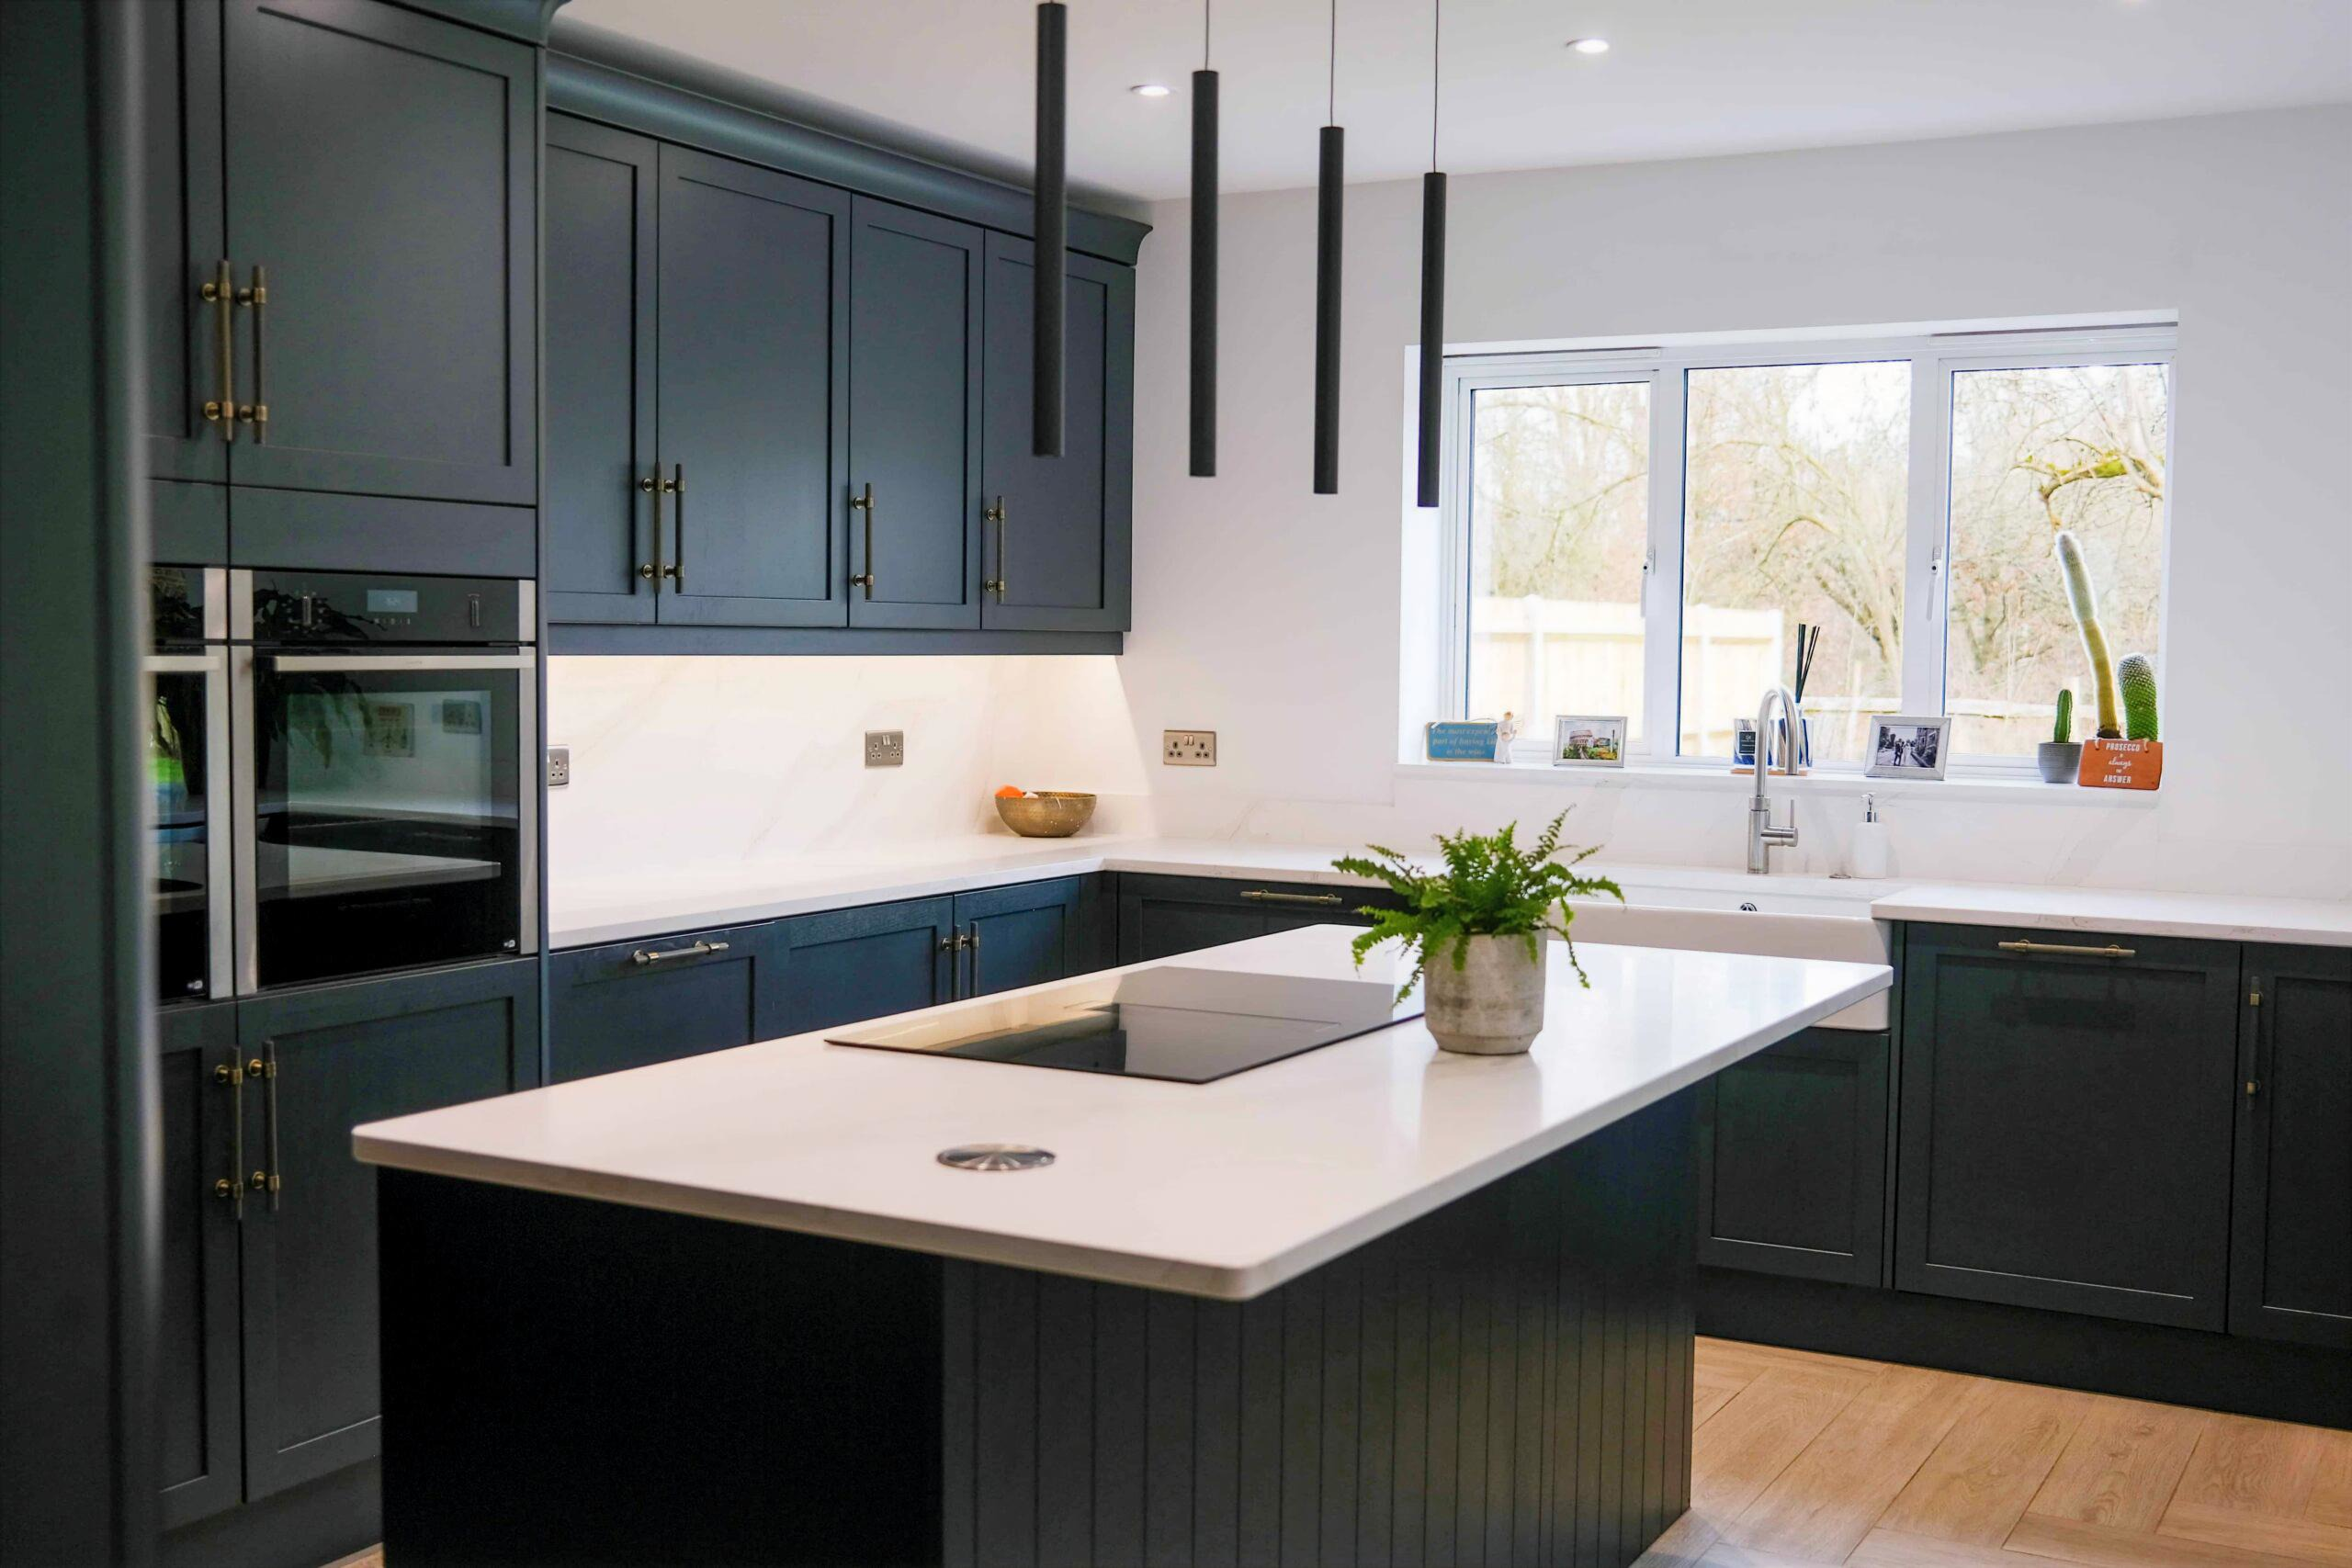
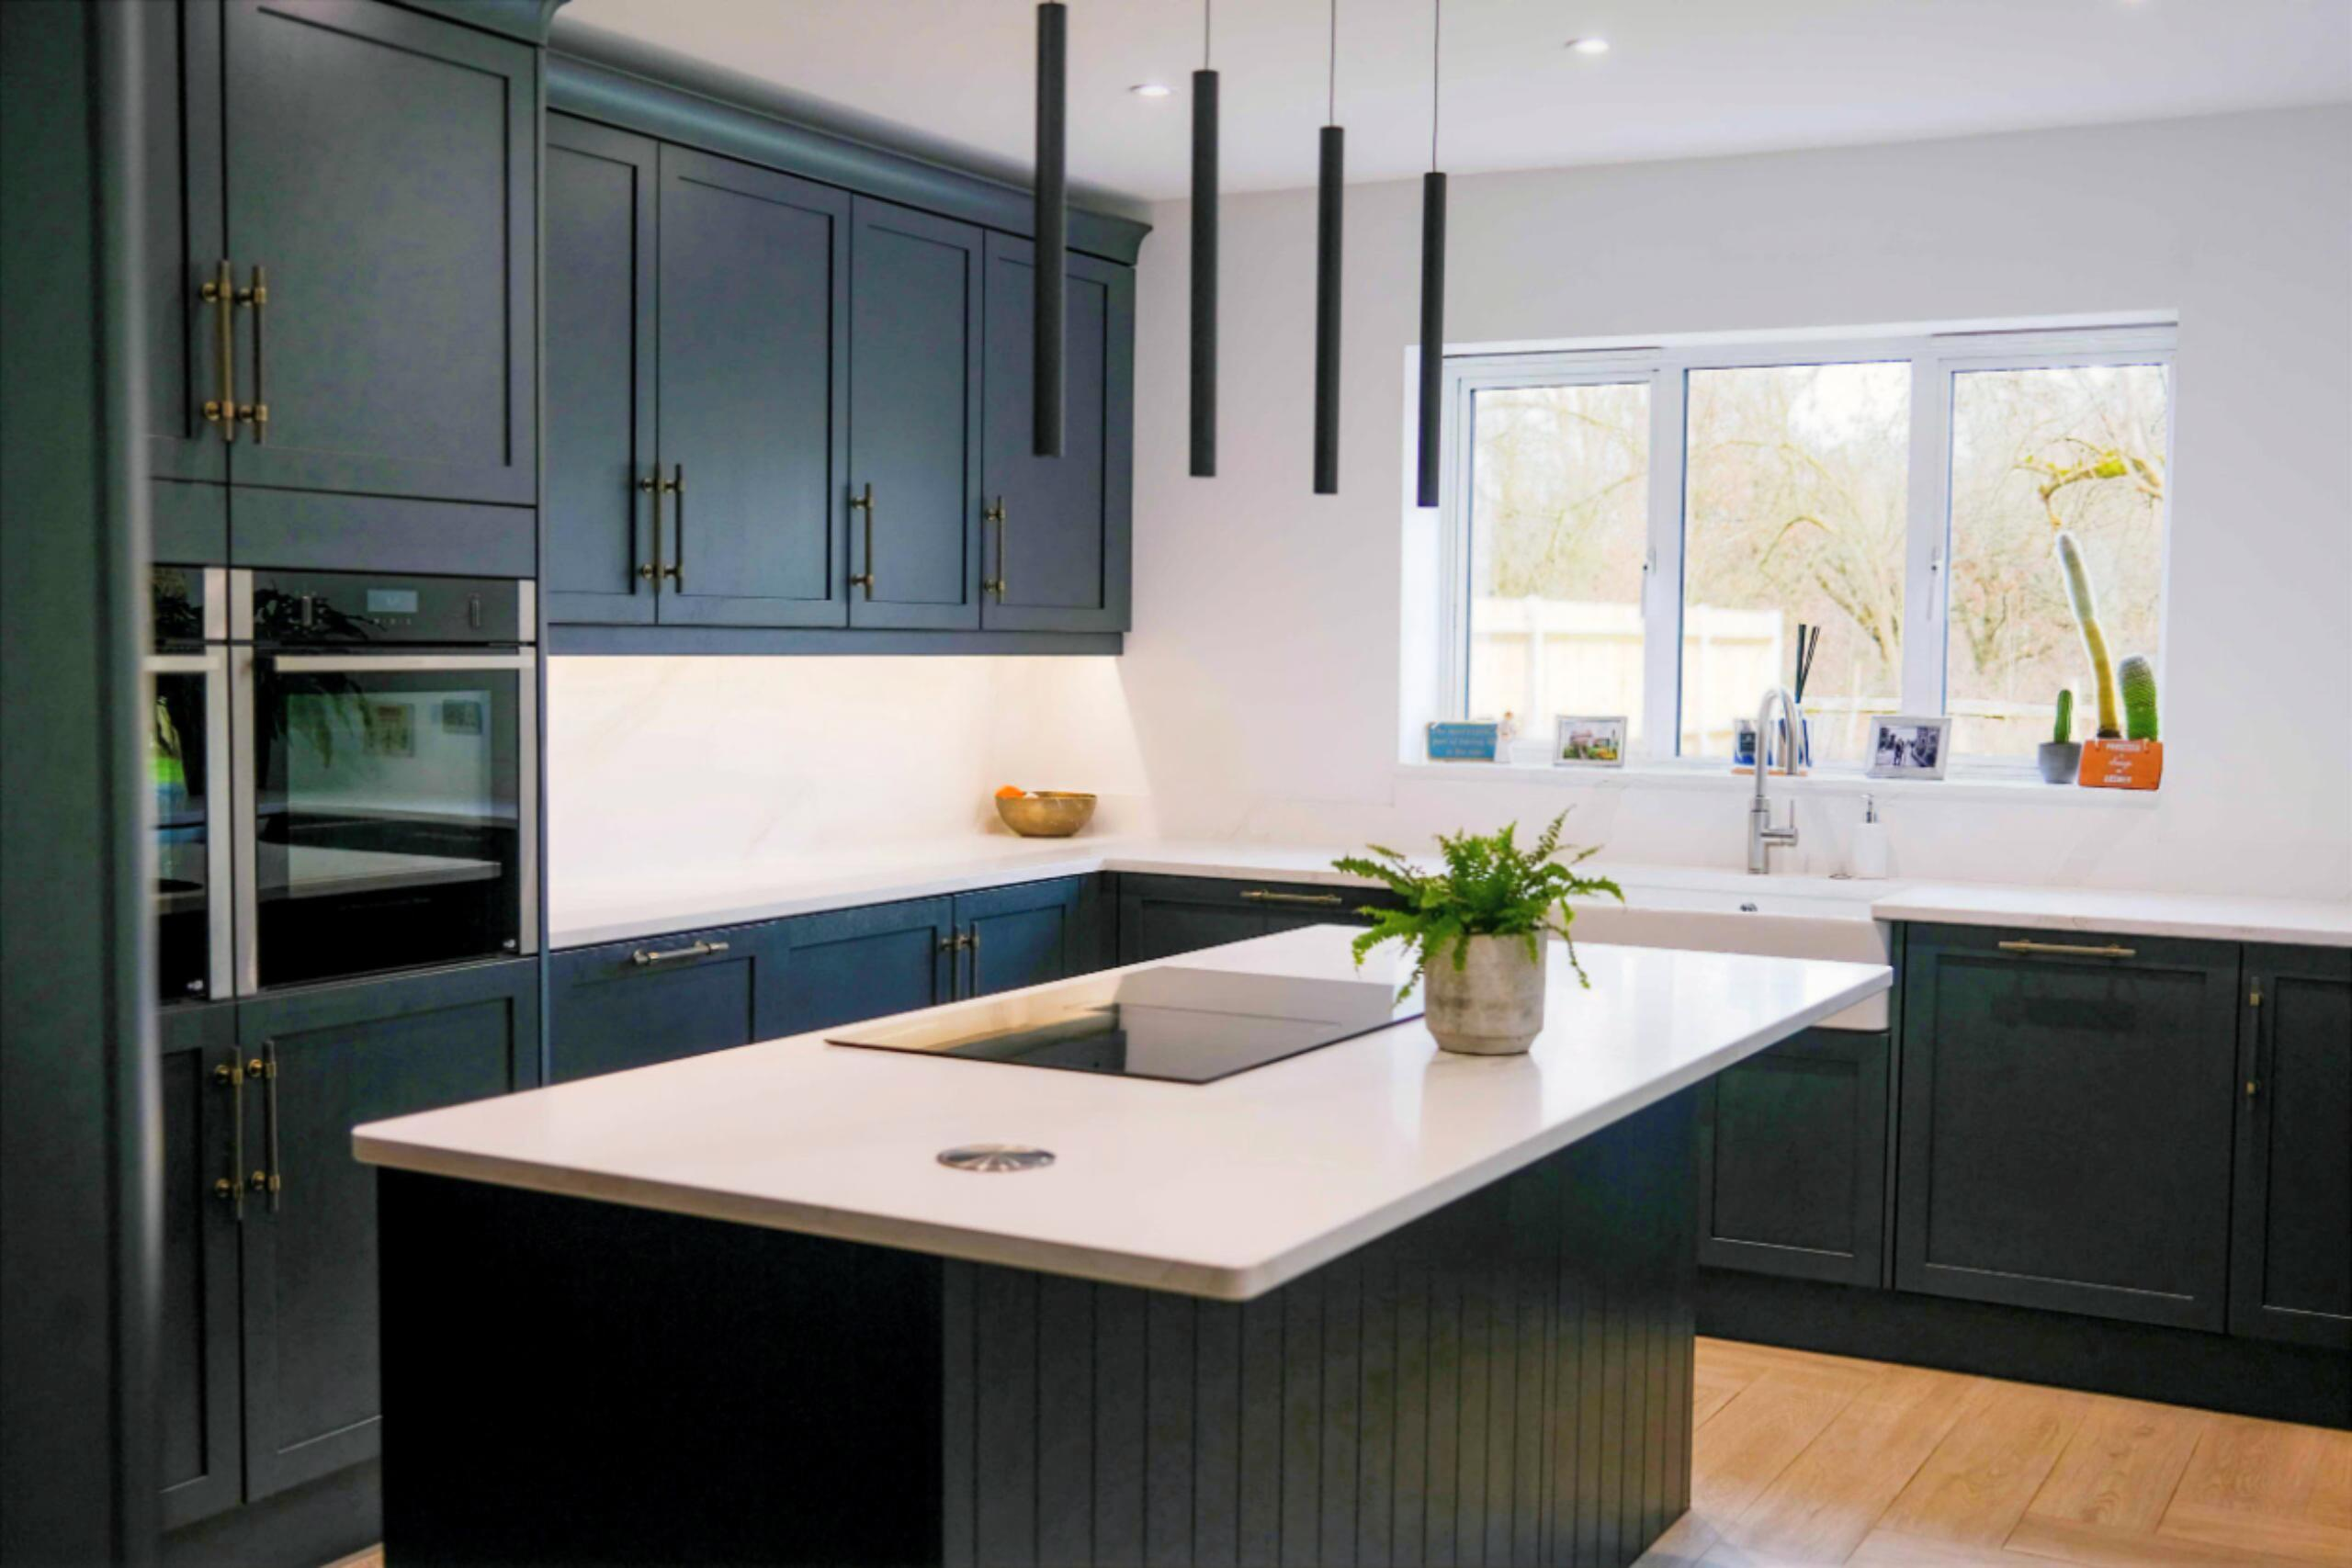
listo algunos cambios

diff --git a/nakama-landing/src/components/Collection.tsx b/nakama-landing/src/components/Collection.tsx
@@ -30,10 +30,8 @@ function Collection() {
 
 
                 <p>
-                    Entendemos que el diseño contemporáneo ha expandido sus fronteras.
-                    Hoy, la inspiración puede nacer de un trazo arquitectónico, un plano
-                    técnico o un concepto digital o IA.
-                    
+                    Entendemos que el diseño contemporaneo ha expandido sus fronteras. Hoy la inspiración puede nacer de un trazo arquitectónico, un plano técnico o un diseño de IA.
+
                 </p>
 
 
@@ -45,7 +43,7 @@ function Collection() {
 
 
                 <h3>
-                    Usted proyecta la idea; nosotros la hacemos realidad.
+                    Proyecta tu idea y nosotros la hacemos realidad.
                 </h3>
 
 

diff --git a/nakama-landing/src/components/Projects.tsx b/nakama-landing/src/components/Projects.tsx
@@ -36,8 +36,8 @@ const projects = [
 
     {
         id: 4,
-        title: "Habitaciones",
-        link: "/habitaciones",
+        title: "Dormitorios",
+        link: "/dormitorios",
         images: [
             habitacionImg,
         ],

diff --git a/nakama-landing/src/components/Philosophy.tsx b/nakama-landing/src/components/Philosophy.tsx
@@ -23,8 +23,7 @@ function Philosophy() {
                     Nakama significa colega, compañero o amigo. Evoca un vínculo profundo,
                     basado en la confianza, la colaboración y un verdadero sentido de pertenencia.
                     Esa es, exactamente nuestra historia.
-                    Somos Leo y Dario, los fundadores y socios detrás de este proyecto, somos
-                    nakamas de la vida.
+                    Somos Leo y Dario, los fundadores y socios detrás de este proyecto.
                 </p>
 
                 <p>

diff --git a/nakama-landing/src/components/HeroSlider.tsx b/nakama-landing/src/components/HeroSlider.tsx
@@ -21,7 +21,7 @@ function HeroSlider() {
                 prev === images.length - 1 ? 0 : prev + 1
             );
 
-        }, 2000);
+        }, 3000);
 
 
         return () => clearInterval(interval);